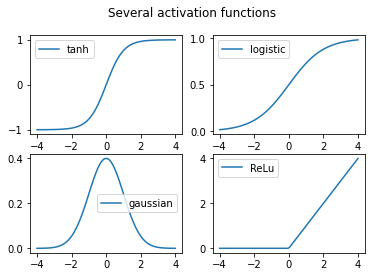
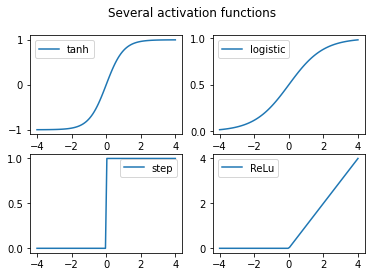
WIP 27Oct2020

diff --git a/neural-nets/nn.tex b/neural-nets/nn.tex
@@ -233,13 +233,126 @@ shown in figure \ref{f4}.
 There are $d + 1$ inputs and $m$ outputs in the first layer. The $m$ 
 outputs are the inputs to the $m$ neurons in the second layer. The output
 of every neuron in the first layer is fed as an input to the second layer.
-Therefore there are $(d + 1) \times m$ weights, denoted by $w_{ij}$ with
+Therefore there are $(d + 1) \times m$ weights, denoted by $w_{ij}^{(1)}$ with
 $i$ ranging from $0$ to $d$ and $j$ ranging from $1$ to $m$. Using the 
 notations of equations \eqref{s3e1} and \eqref{s3e2}, we can write
 \begin{equation}\label{s3e3}
-z_j = g\left(\sum_{i=0}^d w_{ji}x_i\right).
+z_j = g_1\left(\sum_{i=0}^d w_{ji}^{(1)}x_i\right).
 \end{equation}
+The $z_j$ along with $z_0 = 1$ form the inputs to the second layer so that 
+the final output is
+\begin{equation}\label{s3e4}
+y_k = g_2\left(\sum_{j=0}^m w^{(2)}_{jk} g_1\left(\sum_{i=0}^d w^{(1)}_{ij}x_i
+\right)\right),
+\end{equation}
+The activation functions $g_1$ and $g_2$ in equations \eqref{s3e3} and 
+\eqref{s3e4} may be same or they could differ. If they are linear functions
+then the network is no different from matrix multiplication. In they are
+non-linear then the network can represent quite complicated functions. It can
+be shown that if $m$ is sufficiently large then the network of figure \ref{f4}
+can represent any continuous function defined over a finite range of its
+domain, to arbitrary accuracy \cite{bishop1994neural}. When a nulti-layer
+perceptron is used for classification it is common to have $g_2$ to be the
+softmax function so that one can interpret the outputs $y_1, \ldots, y_c$ as
+the probability of membership in classes $1, \ldots, c$.
 
+We saw several activation functions in figure \ref{f3}. We can use all of
+these except the step function. The algorithm to train multi-layer preceptron 
+requires finding the 
+derivative of the activation function. The last one, namely, $g(x)=\max(0, x)$ 
+is not differentiable at the origin. However, that is usually not a problem. 
+The hyperbolic tangent and the logistic functions are especially favored because
+their derivatives can be expressed in terms of themselves. From a numerical
+perspective, computing the derivative at a certain value is easy if we have
+computed the function at the same value. This follows from the fact that if
+$g(x) = \tanh(x)$ then $g^\prime(x) = 1 + (g(x))^2$ and if $g(x) =
+(1+e^{-x})^{-1}$ then $g^\prime(x) = g(x)(1 - g(x))$.
+
+Training the network means selecting the `best' choices of the weights 
+$w^{(1)}_{ij}$ and $w^{(2)}_{jk}$ such that the values of the output $y_k$ 
+are as close to the unknown function as possible. If we are given that an
+input $\vec{x}^q = (x_1^q, \ldots, x_d^q)$ corresponds to a value $\vec{t}^q
+= (t_1^q, \ldots, t_c^q$ (refer to figure \ref{f4}) then the error function
+for this input is
+\begin{equation}\label{s3e5}
+E = \frac{1}{2}\sum_{q=1}^n ||\vec{t}^q - \vec{y}^q||^2,
+\end{equation}
+where $\vec{y}^q = (y_1^q, \ldots, y_c^q)$ is the output of the network. The
+quantity $E$ is a function of the weights $w^{(1)}_{ij}$ and $w^{(2)}_{jk}$.
+Training the network is thus finding the minimum of the function $E$. In 
+general, $E$ can have several minima and the challenge of a network training
+algorithm is the find the least among all the minima. This choice of the
+minimum is called the \emph{global} minimum. There are several optimization
+algorithms to compute extrema of functions of several variables. In the case
+of the error function of \eqref{s3e5}, where $\vec{y}^q$ is the output of a
+multi-layer perceptron, an efficient algorithm is based on \emph{error
+backpropagation} \cite{rumelhart1985learning}. For each pair $(\vec{x}^q, 
+\vec{t}^q)$, the algorithm first computes the error $\vec{t}^q - \vec{y}^q$
+and then it attributes a portion of the error to each neuron of the previous
+layers, reaching all the way down to the input layer. It then adjusts the 
+weights starting from the input layer al the way up to the output layer to 
+minimize the error. In modern terms, it can be described as a gradient descent 
+with an auto-diff \cite{geron2019hands}.
+
+We will illustrate classification using the multi-layer perceptron in the
+code snippets below. The first among these imports the necessary packages.
+\begin{verbatim}
+import numpy as np
+import pandas as pd
+import seaborn as sns
+import matplotlib.pyplot as plt
+from sklearn import datasets
+from sklearn.model_selection import train_test_split
+from sklearn.neural_network import MLPClassifier
+from sklearn import preprocessing
+from sklearn.metrics import average_precision_score, confusion_matrix
+from sklearn.metrics import accuracy_score, classification_report
+from sklearn.metrics import plot_confusion_matrix
+\end{verbatim}
+
+We then load the data set and encode the class as a number.
+\begin{verbatim}
+df = sns.load_dataset("iris")
+encoder = preprocessing.LabelEncoder()
+df['species_class'] = encoder.fit_transform(df['species'])
+\end{verbatim}
+
+After splitting the data set as
+\begin{verbatim}
+X_train, X_test, y_train, y_test = 
+	train_test_split(df[['petal_length', 'petal_width']], \
+                     df['species_class'], \
+                     test_size=1/3, \
+                     random_state = 15081947)
+\end{verbatim}
+we train a multi-layer perceptron classifier 
+\begin{verbatim}
+clf_0 = MLPClassifier(hidden_layer_sizes=(3, 3), \
+                     random_state=15081947, \
+                     solver='lbfgs', \
+                     alpha=1e-5)
+clf_0.fit(X_train, y_train)
+\end{verbatim}
+and use it on the test data
+\begin{verbatim}
+y_pred = clf_0.predict(X_test)
+\end{verbatim}
+Finally, we check the quality of our prediction.
+\begin{verbatim}
+accuracy_score(y_test, y_pred)
+
+# Print the classification report.
+y_test_orig = encoder.inverse_transform(y_test)
+y_pred_orig = encoder.inverse_transform(y_pred)
+print(classification_report(y_test_orig, y_pred_orig, digits=2))
+
+# Print the confusion matrix.
+conf_mat = confusion_matrix(y_test_orig, y_pred_orig)
+ctypes = ['setosa ', 'versicolor', 'virginica']
+df_conf_mat = pd.DataFrame(conf_mat, index = ctypes, columns = ctypes)
+plt.figure(figsize = (10,7))
+ignore = sns.heatmap(df_conf_mat, annot=True, cmap='Blues', fmt='g')
+\end{verbatim}
 \bibliographystyle{plain}
 \bibliography{nn}
 \end{document}
